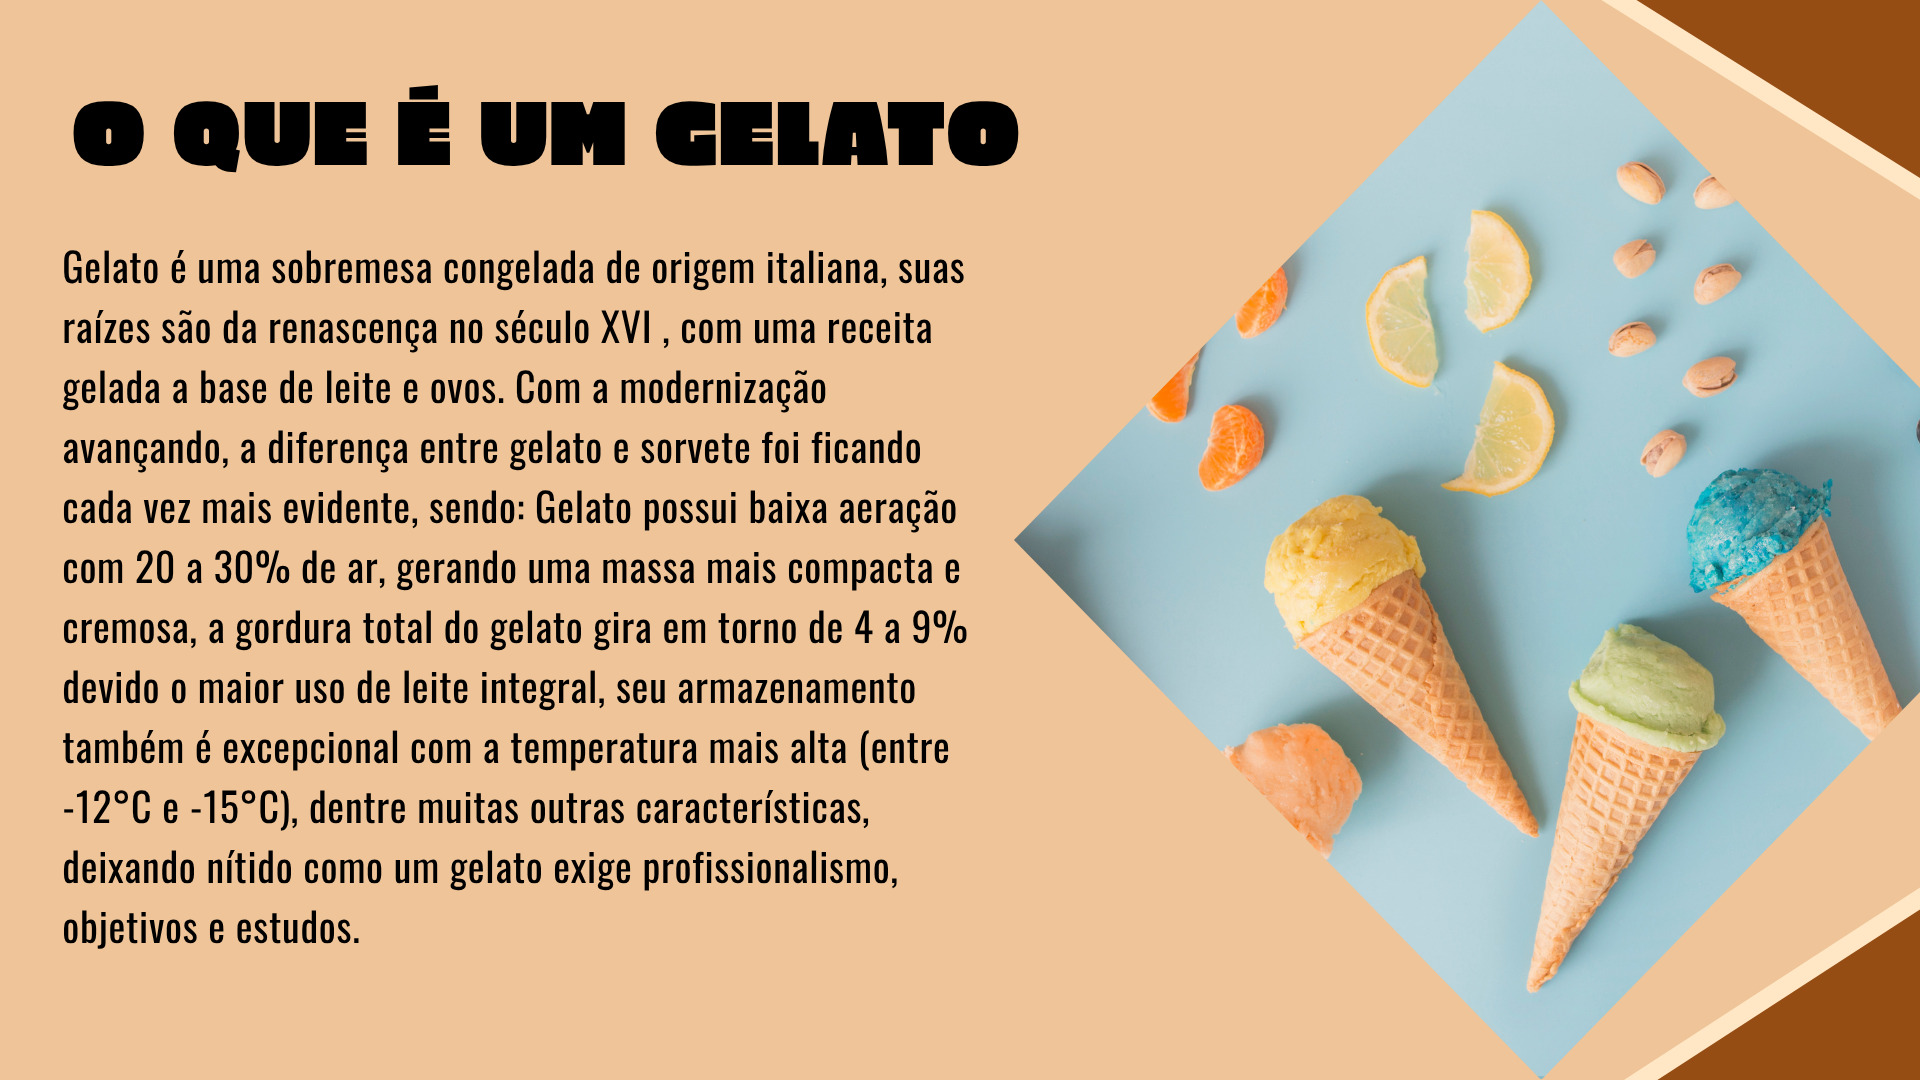
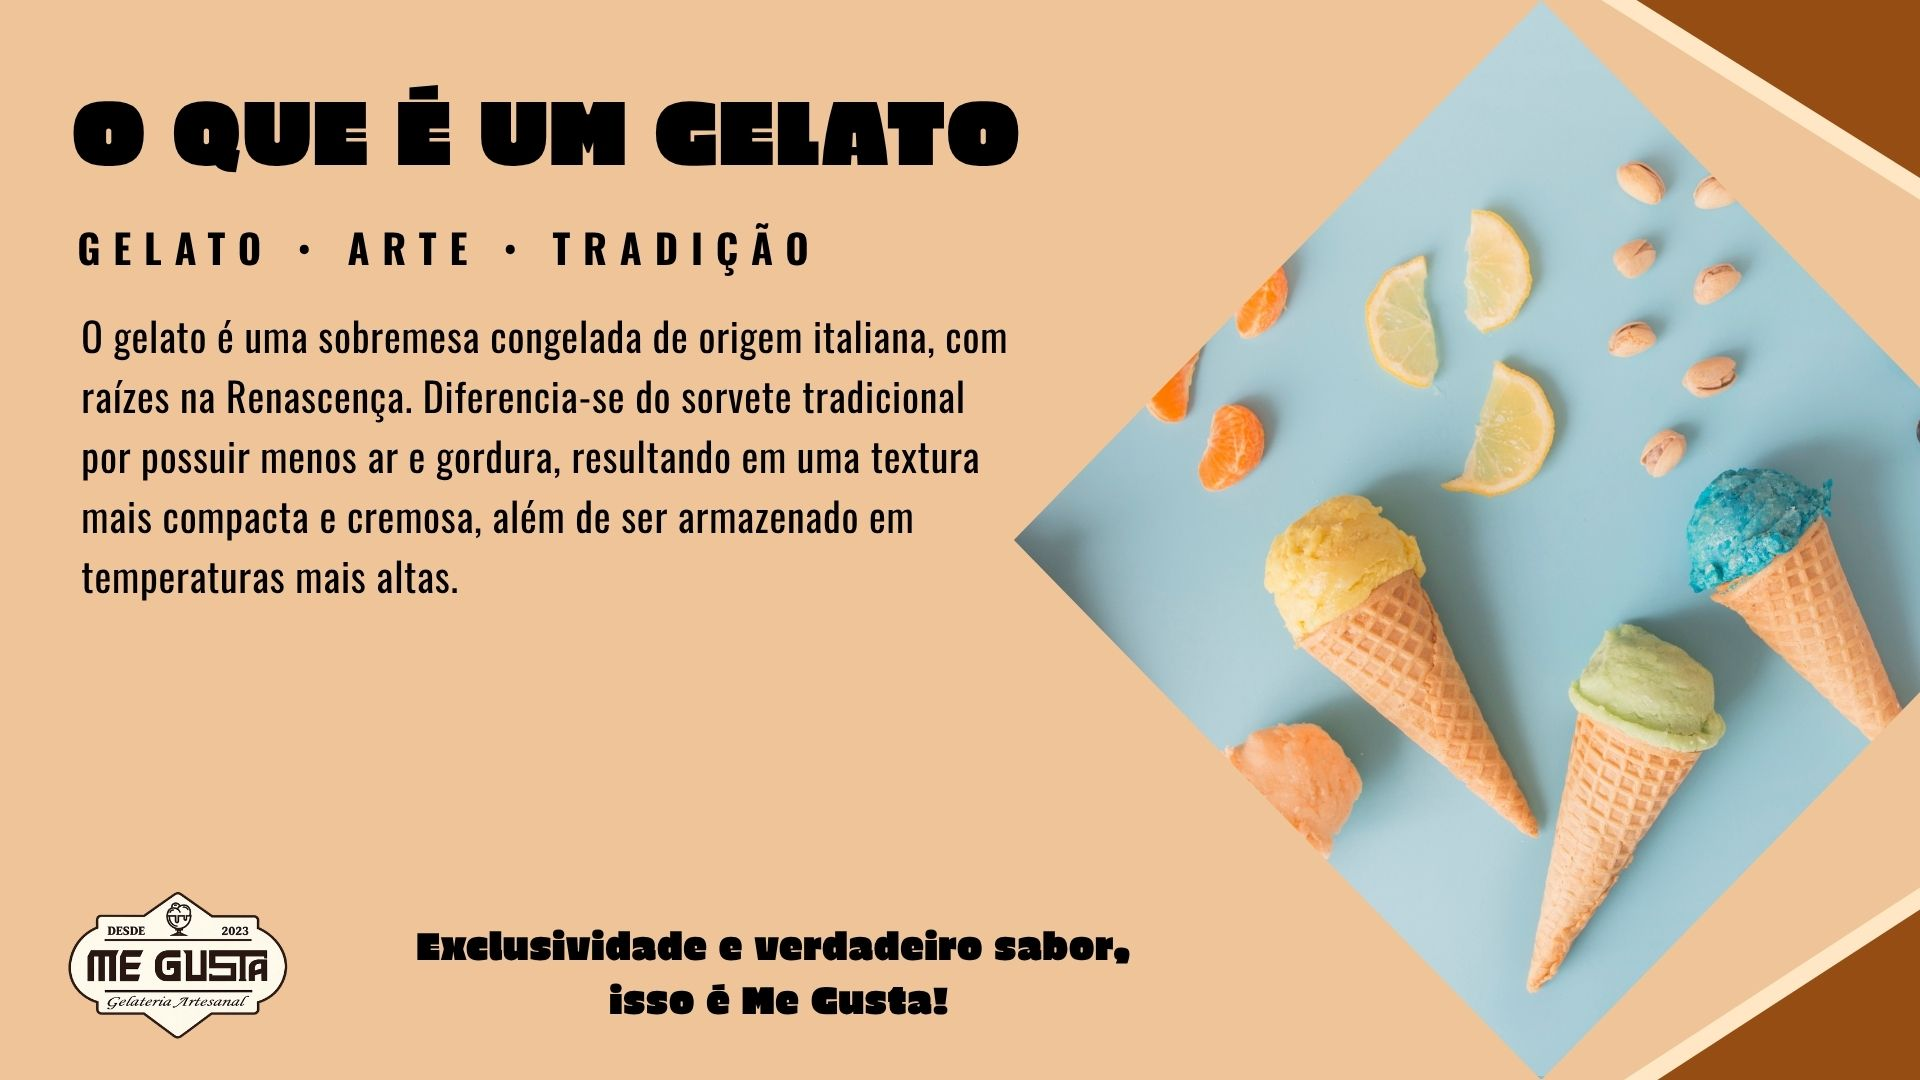
A

diff --git a/SobreNós.html b/SobreNós.html
@@ -585,7 +585,7 @@
 
 
     
-    <img src="img/m.png" width="1513" height="800" alt="">
+    <img src="img/BannerSobreNos.jpg" width="1513" height="800" alt="">
 
     <div class="fundo_rodapé roda"> <!--Informações rodapé, logo, tamanho e links-->
         <img src="img/LogoMeGusta.png" height="200px" width="200px">
